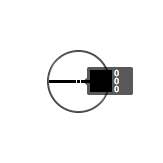
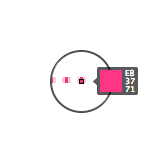
Updated images and copy

Changed region(s): [[0.2761, 0.3067, 0.8589, 0.7055]]

diff --git a/views/stylesheets/screen.scss b/views/stylesheets/screen.scss
@@ -128,6 +128,10 @@ body {
         font-size: .85em;
       }
     }
+    
+    .b-usage_paste img {
+      margin-left: -17px;
+    }
   }
 }
 
@@ -149,10 +153,16 @@ body {
     margin-left: -7px;
   }
   
+  .b-features_format img {
+    margin-top: -8px;
+    margin-left: -8px;
+    margin-bottom: -30px;
+  }
+  
   .b-slide__item {
     position: absolute;
-    margin-top: -92px;
-    margin-left: -20px;
+    margin-top: -164px;
+    margin-left: -30px;
     text-align: center;
     vertical-align: center;
     width: 291px;
@@ -170,8 +180,8 @@ body {
   
   .b-slide__slider {
     position: relative;
-    padding: 15px 20px 20px;
-    margin-top: 150px;
+    padding: 15px 20px 32px;
+    margin-top: 100px;
     margin-left: -20px;
     background-color: #e2e2e2;
     background-color: rgba(200,200,210,0.35);
